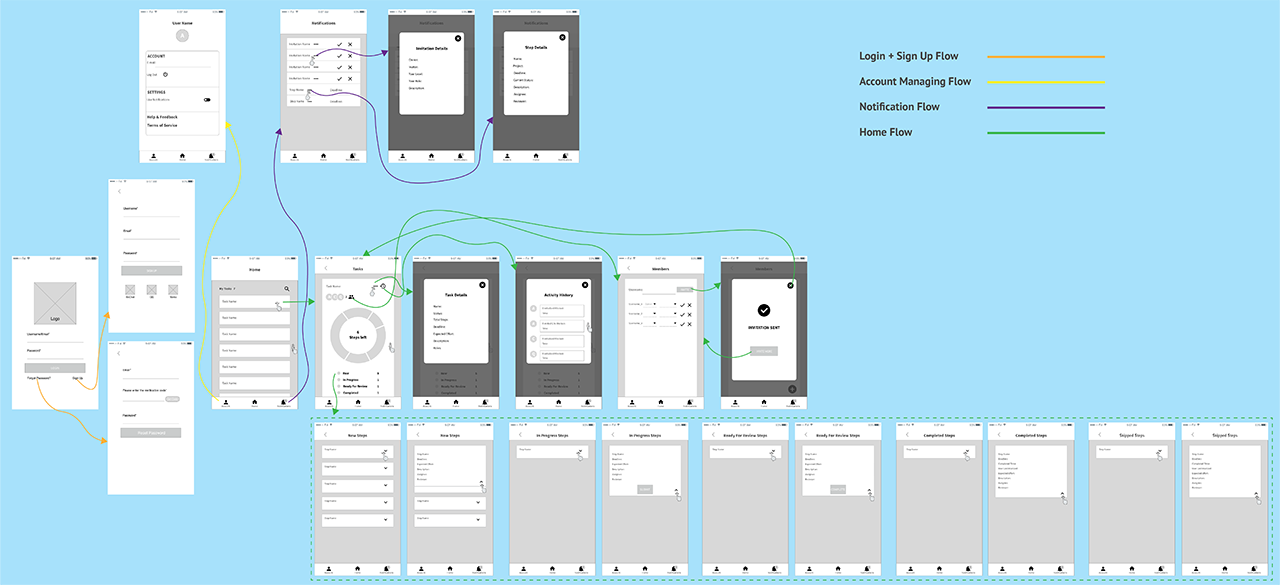
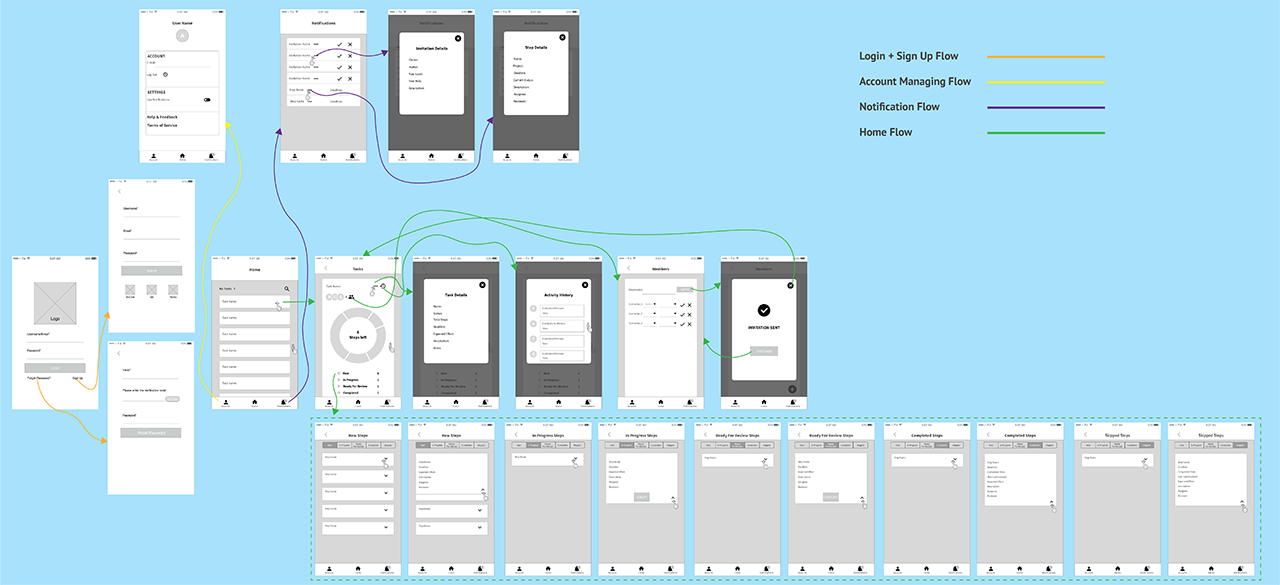
update

Changed region(s): [[0.25, 0.7077, 1.0, 1.0], [0.3125, 0.9538, 0.3438, 0.9846]]

diff --git a/Portfolio/Taskit/index.html b/Portfolio/Taskit/index.html
@@ -90,7 +90,7 @@
                 <h2>Design Process</h2>
                 <div class="stage_one">
                     <h3>Discover &amp; Define</h3>
-                    <p>Before getting started with the design, I had a kick-off meeting with the client. According to the product walkthrough, the goal of Taskit has been set as bringing simple and efficient digital experience for the user to manage tasks. Its existing web-based product focuses on the following three functionalities: </p>
+                    <p>Before getting started with the design, I had a kick-off meeting with the client. According to their product walkthrough, the goal of Taskit has been set as bringing simple and efficient digital experience for the user to manage tasks. Its existing web-based product focuses on the following three functionalities: </p>
                     <div class="row">
                         <div id="screenshot_one" class="col-xl-4">
                             <a class="image-link" href="../Taskit/images/task_create.jpg"><img src="images/task_create.jpg" alt="adding and creating tasks" width="256" height="160"></a>
@@ -105,11 +105,11 @@
                             <figcaption class="figure-caption">Manage Collaboration </figcaption>
                         </div>
                     </div>
-                    <p>As mobile devices have become a popular way for people to browse the web information anytime anywhere, the company realizes that mobile app, which focuses on visualizing the progress of tasks, can build a new customer market as well as bring their business to the next level. </p>
+                    <p>As mobile devices have become a popular way for people to browse the web information anytime anywhere, the company realizes that mobile app, which focuses on visualizing the progress of tasks as well quickly managing workflows, can build a new customer market as well as bring their business to the next level. </p>
                     <div class="row">
                         <div id="challenge" class="col-xl-6">
                             <h4>The Challenge</h4>
-                            <p>The client wants to create efficient experience for their users by building a cross-platform mobile application that makes it simple for users view and manage the progress of tasks in a timely manner.</p>
+                            <p>The client wants to create efficient experience for their users by building a cross-platform mobile application that makes it simple for users to view and manage the progress of tasks in a timely manner.</p>
                         </div>
                         <div id="goal" class="col-xl-6">
                             <h4>The Goal of Mobile App</h4>
@@ -136,7 +136,7 @@
                     <p>In the first round wireframing, after the login flow, the following bottom navigation bar that includes three destinations was used for navigating this mobile app.</p>
                     <img id="bottom_navi" src="images/bottom%20navi.png" alt="bottom navigation" width="414" height="59">
                     <ul id="navi_features">
-                        <li> With the <span>Home</span> flow, the user can get a list of tasks you are involved with; they can easily view progress,  step details, and activity history of each task  as well as manage collaborators.
+                        <li> With the <span>Home</span> flow, the user can get a list of tasks they are involved with; they can easily view progress,  step details, and activity history of each task  as well as manage collaborators.
                         </li>
                         <li>The <span>Notification</span> flow enables the user to check and process the collaboration invitations as well as view steps which approaches the deadline soon.
                         </li>
@@ -151,9 +151,10 @@
                         <div class="col-xl-5">
                             <h4>What The Client Like</h4>
                             <ul>
-                                <li>The Login + Sign Up flow is simple; it provides login options via popular social media accounts.</li>
+                                <li>The Login + Sign Up flow is simple. Also, it provides login options via popular social media accounts.</li>
                                 <li>The Notification flow not only informs the user about task collaboration invitation but also serves a warning about the due dates.</li>
                                 <li>The data visualization design with segmented donut chart effectively communicates the progress of tasks.</li>
+                                <li>The Kanban technique makes it simple to quickly view the workflow of tasks.</li>
                             </ul>
                         </div>
                         <div class="col-xl-2">
@@ -163,13 +164,38 @@
                             <h4>What Need To Be Improved</h4>
                             <ul>
                             <li>Despite the bottom navigation bar makes the app's navigation in a neat and clean manner, a more simple alternative need to be used due to the company's current app development budget constraints. </li>
-                            <li>Task steps viewing needs to be prioritized. </li>
-                            <li>Task steps managing with the Kanban technique needs to have less switching back-and-forth actions. </li>
-                            <li>The screen space needs to be optimized. </li>
+                            <li>Task steps managing needs to be prioritized. </li>
+                            <li>Task steps managing with the Kanban technique needs to be simplified with less back-and-forth taps. </li>
+                            <li>The screen space use to be optimized. </li>
                             </ul>
                         </div>
                     </div>
-                    <p>With the client feedback on first version of wireframes, I iterated the wireframing with the following changes: </p>
+                    <p>With the client feedback on first version of wireframes, I iterated the wireframing with the following major changes: </p>
+                    <div id="v2_change_one" class="row">
+                        <div class="col-xl-5">
+                            <ul>
+                                <li>The bottom navigation bar was removed to save the client's app development budget.</li>
+                                <li>The "Account" and "Notification" flow were located on the homepage.</li>
+                                <li>The number of steps left for each task were displayed on the homepage, which allows the user to grasp a quick view of task progress.</li>
+                            </ul>
+                        </div>
+                        <div class="col-xl-7">
+                            <a class="image-link" href="images/homepage.png"><img src="images/homepage.png" alt="homepage changes" width="450" height="338"></a>
+                        </div>
+                    </div>
+                    <div id="v2_change_two" class="row">
+                        <div class="col-xl-5">
+                            <ul>
+                                <li>The task steps managing flow has been prioritized.</li>
+                                <li>The progress of the task with the donut chart flow was incorporated into the task steps managing flow.</li>
+                                <li>The task details and the donut chart were displayed at the same page.</li>
+                            </ul>
+                        </div>
+                        <div class="col-xl-7">
+                            <a class="image-link" href="images/task_steps.png"><img src="images/task_steps.png" alt="task steps flow" width="450" height="338"></a>
+                        </div>
+                    </div>
+                    <p>In the design review meeting, the client was satisfied with these major changes that I made in the iteration. Specifically, they really like the new <span>Home</span> flow design which is more straightforward and intuitive than the first version. Nonetheless, the client still pointed out two problems as follows: </p>
                     
                 </div>
             </div>

diff --git a/Portfolio/Calcentral/index.html b/Portfolio/Calcentral/index.html
@@ -50,12 +50,39 @@
         
         <div class="project_card_calcentral">
             <h1>CAL Planning &amp; Scheduling</h1>
-            <p>Design research on the existing UC Berkeley course planning and scheduling UIs, for the purpose of evaluating a potential redesign.</p>
+            <p>Design research on the existing UC Berkeley course planning and scheduling systems and interfaces, for the purpose of evaluating a potential redesign.</p>
             <button type="button" class="btn btn-outline-light btn-lg">Deliverable</button>
         </div>
         <div class="project_background_calcentral">
             <div class="background">
                 <h2>Background</h2>
+                <P></P>
+                <div id="role_time" class="row">
+                    <div class="col-xl-4">
+                        <h3>My Role</h3>
+                        <p>Design Research</p>
+                    </div>
+                    <div class="col-xl-4">
+                        <h3>Team</h3>
+                        <p>Molly Nicolas, Shweta Patkar</p>
+                    </div>
+                    <div class="col-xl-4">
+                        <h3>Duration</h3>
+                        <p>4 weeks</p>
+                    </div>
+                </div>
+                <div id="method_contribution" class="row">
+                    <div class="col-xl-12">
+                        <h3>Research Methods</h3>
+                        <p></p>
+                    </div>
+                </div>
+                <div id="method_contribution" class="row">
+                    <div class="col-xl-12">
+                        <h3>Qian's Contribution</h3>
+                        <p></p>
+                    </div>
+                </div>
             </div>
         </div>
     </div>

diff --git a/CSS/style.css b/CSS/style.css
@@ -641,6 +641,25 @@ mark:hover{
     margin-top: 50px;
 }
 
+#method_contribution {
+    margin-top: 25px;
+    margin-left: 103px;
+}
+
+#method_contribution h3 {
+    font-family: 'Open Sans', sans-serif;
+    font-size: 23px;
+    font-weight: 600;
+    color: #333333;
+}
+
+#method_contribution p {
+    font-family: 'Open Sans', sans-serif;
+    font-size: 16px;
+    font-weight: 400;
+    margin-left: 0px;
+    color: #333333;
+}
 
 /* Styling of Taskit */
 
@@ -973,7 +992,7 @@ mark:hover{
 }
 
 #feedbacks_v1 img {
-    margin-top: 100px;
+    margin-top: 200px;
     margin-left: 25px;
 }
 
@@ -999,6 +1018,40 @@ mark:hover{
 
 #needimprovement {
     margin-left: -175px;
+}
+
+#v2_change_one ul{
+    font-family: 'Open Sans', sans-serif;
+    font-size: 16px;
+    font-weight: 400;
+    color: #333333;
+    width: 400px;
+    margin-left: 75px;
+}
+
+#v2_change_one img {
+    margin-left: 35px;
+}
+#v2_change_two {
+    margin-top: 20px;
+    margin-bottom: 30px;
+}
+
+#v2_change_two ul{
+    font-family: 'Open Sans', sans-serif;
+    font-size: 16px;
+    font-weight: 400;
+    color: #333333;
+    width: 400px;
+    margin-left: 75px;
+}
+
+#v2_change_two img {
+    margin-left: 35px;
+}
+
+span {
+    font-weight: 700;
 }
 /* Styling of Hobbyup */
 
